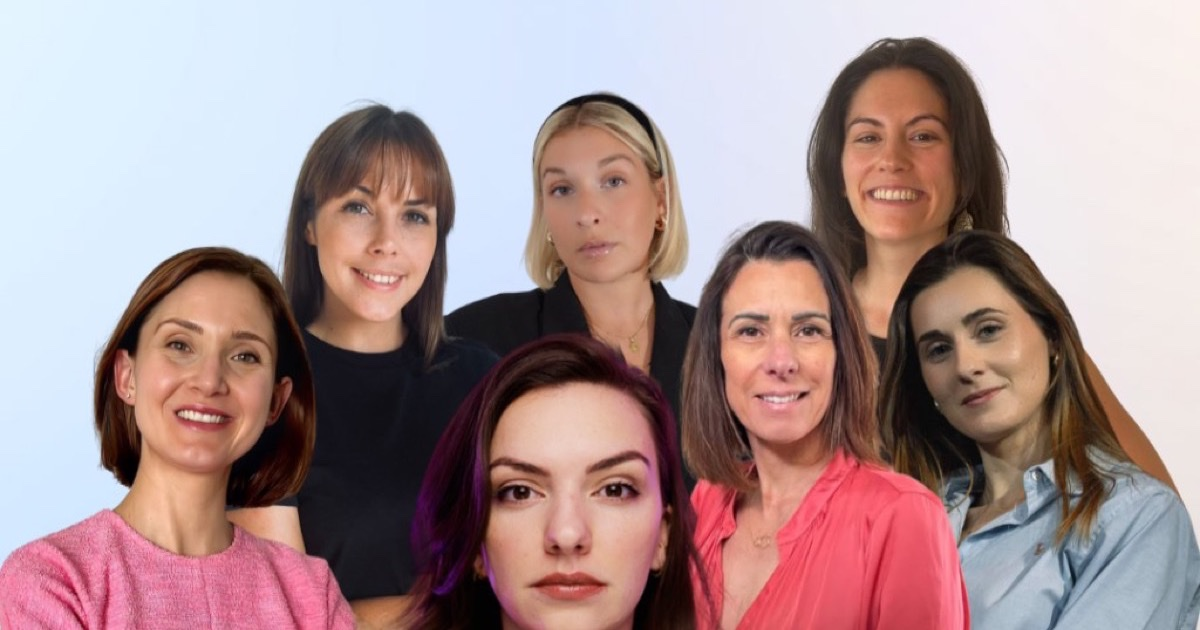
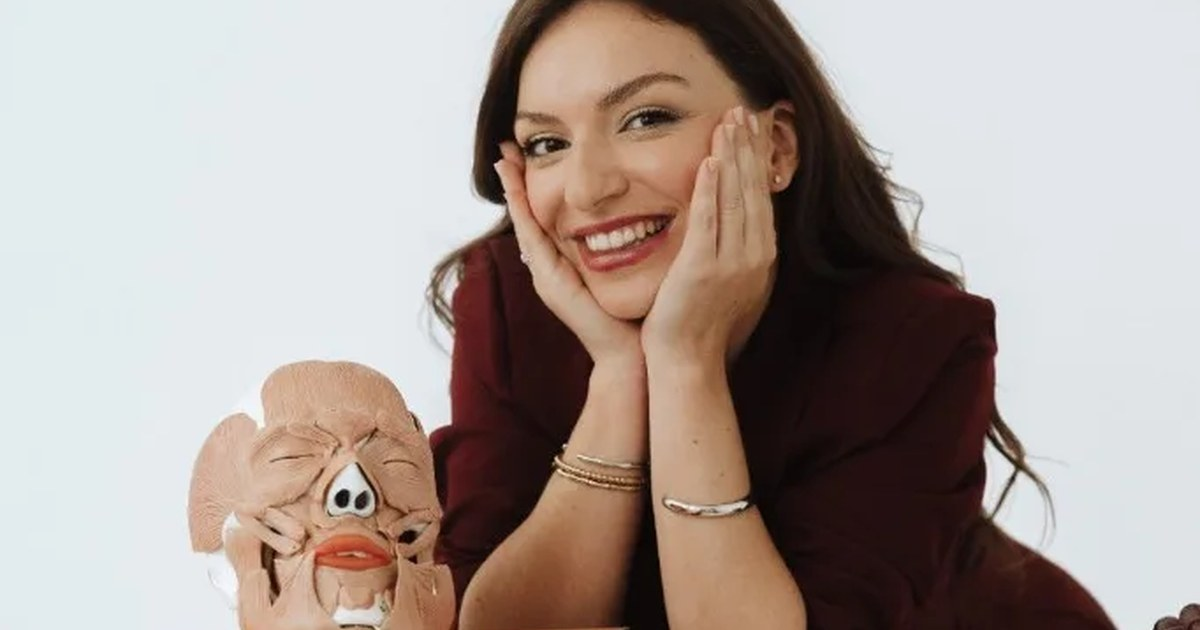
feat: nouvelle image de partage social
Portrait Laury à la place du collage, pour WhatsApp et iMessage.

diff --git a/src/components/Layout.jsx b/src/components/Layout.jsx
@@ -16,7 +16,7 @@ const jsonLd = {
   description: 'Méthode RESET™ de yoga du visage par Laury. Programmes personnalisés pour tonifier, lifter et rajeunir le visage naturellement.',
   url: 'https://yogyface.fr',
   logo: 'https://yogyface.fr/favicon.png',
-  image: 'https://yogyface.fr/og-image.jpg',
+  image: 'https://yogyface.fr/og-image.jpg?v=20260830',
   founder: { '@id': 'https://yogyface.fr/#laury' },
   email: 'contact@yogyface.fr',
   sameAs: [

diff --git a/src/components/SEO.jsx b/src/components/SEO.jsx
@@ -1,7 +1,8 @@
 import { Head } from 'vite-react-ssg'
 
 const SITE = 'https://yogyface.fr'
-const DEFAULT_IMAGE = `${SITE}/og-image.jpg`
+// ?v= casse le cache Facebook / iMessage quand on change le visuel.
+const DEFAULT_IMAGE = `${SITE}/og-image.jpg?v=20260830`
 
 /**
  * Per-page SEO head tags.

diff --git a/CHANGELOG.md b/CHANGELOG.md
@@ -9,6 +9,7 @@
 
 ### 🔧 Changed
 
+- **Image sociale (Open Graph)** : portrait Laury (livres + modèle anatomique) à la place du collage 7 visages. Cache-bust `?v=20260830`.
 - **Liste d'attente** : titre « réserve ta place de membre fondatrice », 50 places, 1 200 femmes, téléphone optionnel (SMS à l'ouverture).
 
 ## 2026-08-26
